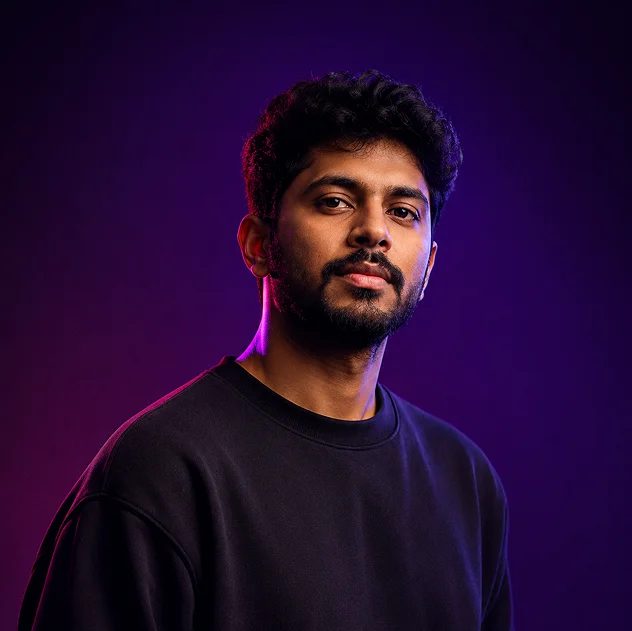
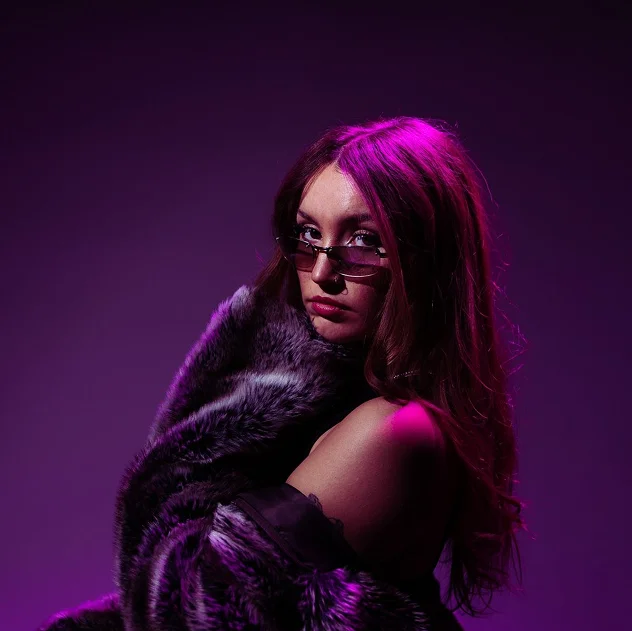
feat: create Web & App development page and add related assets

diff --git a/ZYLOGENIX/src/pages/Web&App.jsx b/ZYLOGENIX/src/pages/Web&App.jsx
@@ -113,15 +113,24 @@ const WebApp = () => {
           title={"Lorem Lipsum Solor\nLorem Lipsms"}
           description1="Lorem ipsum dolor sit amet consectetur. Ipsum vel dolor ut euLorem ipsum dolor sit amet consectetur. Ipsum vel dolor ut euLorem ipsum dolor sit amet consectetur. Ipsum vel dolor ut euLorem ipsum dolor sit amet consectetur. Ipsum vel dolor ut euLorem ipsum dolor sit amet consectetur. Ipsum vel dolor ut eu"
           description2="Lorem ipsum dolor sit amet consectetur. Ipsum vel dolor ut euLorem ipsum dolor sit amet consectetur."
-          bgColor="#0A0A0A"
+          bgColor="rgba(0, 0, 0, 1)"
           imagePosition="left"
+          imageScale={1}
+          objectFitOverride='cover'
+          containerSx={{ minHeight: { xs: 'auto', sm: 'auto', md: '520px', lg: '639px' } }}
+          imageContainerSx={{ 
+            flex: { xs: '1 1 100%', sm: '1 1 50%', lg: '0 0 580px' }, 
+            width: { xs: '100%', sm: '50%', lg: '580px' }, 
+            height: { xs: 'auto', sm: 'auto', lg: '639px' },
+            ml: { xs: '0px', lg: '45px' },
+            mt: { xs: '0px', lg: '0px' } 
+          }}
         />
 
         {/* Card 2 */}
         <FeatureCard 
           className="white-section"
           image={Img2}
-          imageScale={0.80}
           badgeText="Website Redesign & Maintenance"
           title={"Lorem Lipsum Solor\nLorem Lipsms"}
           description1="Lorem ipsum dolor sit amet consectetur. Ipsum vel dolor ut euLorem ipsum dolor sit amet consectetur. Ipsum vel dolor ut euLorem ipsum dolor sit amet consectetur. Ipsum vel dolor ut euLorem ipsum dolor sit amet consectetur. Ipsum vel dolor ut euLorem ipsum dolor sit amet consectetur. Ipsum vel dolor ut eu"
@@ -129,19 +138,49 @@ const WebApp = () => {
           bgColor="#FFFFFF"
           textColor="#000000"
           imagePosition="right"
+          imageScale={1}
+          objectFitOverride='contain'
+          imageContainerSx={{ 
+            flex: { xs: '1 1 100%', sm: '1 1 50%', lg: '0 0 487px' }, 
+            width: { xs: '100%', sm: '50%', lg: '487px' }, 
+            height: { xs: 'auto', sm: 'auto', lg: '614px' }
+          }}
+          badgeSx={{ 
+            width: { lg: '153px' }, 
+            height: { lg: '24px' },
+            padding: { lg: '0px' } 
+          }}
+          titleSx={{ 
+            fontSize: { lg: '37.81px' }, 
+            lineHeight: { lg: '34.79px' }, 
+            maxWidth: { lg: '472px' }
+          }}
+          descriptionSx={{ 
+            fontSize: { lg: '16px' }, 
+            lineHeight: { lg: '25px' }, 
+            maxWidth: { lg: '486px' }
+          }}
         />
 
         {/* Card 3 */}
         <FeatureCard 
           image={Img3}
-          objectFitOverride="contain"
-          imageScale={0.78}
           badgeText="E-Commerce Development"
           title={"Lorem Lipsum Solor\nLorem Lipsms"}
           description1="Lorem ipsum dolor sit amet consectetur. Ipsum vel dolor ut euLorem ipsum dolor sit amet consectetur. Ipsum vel dolor ut euLorem ipsum dolor sit amet consectetur. Ipsum vel dolor ut euLorem ipsum dolor sit amet consectetur. Ipsum vel dolor ut euLorem ipsum dolor sit amet consectetur. Ipsum vel dolor ut eu"
           description2="Lorem ipsum dolor sit amet consectetur. Ipsum vel dolor ut euLorem ipsum dolor sit amet consectetur."
           bgColor="#0B1117"
           imagePosition="left"
+          imageScale={1}
+          objectFitOverride='contain'
+          containerSx={{ minHeight: { xs: 'auto', sm: 'auto', md: '520px', lg: '639px' } }}
+          imageContainerSx={{ 
+            flex: { xs: '1 1 100%', sm: '1 1 50%', lg: '0 0 391px' }, 
+            width: { xs: '100%', sm: '50%', lg: '391px' }, 
+            height: { xs: 'auto', sm: 'auto', lg: '557px' },
+            ml: { xs: '0px', lg: '148px' },
+            mt: { xs: '0px', lg: '84px' } 
+          }}
         />
 
         {/* Card 4 */}
@@ -155,6 +194,14 @@ const WebApp = () => {
           bgColor="rgba(232, 232, 232, 1)"
           textColor="#000000"
           imagePosition="right"
+          imageScale={1}
+          objectFitOverride='cover'
+          containerSx={{ minHeight: { xs: 'auto', sm: 'auto', md: '520px', lg: '633px' } }}
+          imageContainerSx={{ 
+            flex: { xs: '1 1 100%', sm: '1 1 50%', lg: '0 0 537px' }, 
+            width: { xs: '100%', sm: '50%', lg: '537px' }, 
+            height: { xs: 'auto', sm: 'auto', lg: '634px' }
+          }}
         />
 
         {/* Card 5 */}
@@ -166,6 +213,14 @@ const WebApp = () => {
           description2="Lorem ipsum dolor sit amet consectetur. Ipsum vel dolor ut euLorem ipsum dolor sit amet consectetur."
           bgColor="#0D1614"
           imagePosition="left"
+          imageScale={0.999}
+          objectFitOverride='cover'
+          containerSx={{ minHeight: { xs: 'auto', sm: 'auto', md: '520px', lg: '639px' } }}
+          imageContainerSx={{ 
+            flex: { xs: '1 1 100%', sm: '1 1 50%', lg: '0 0 590px' }, 
+            width: { xs: '100%', sm: '50%', lg: '590px' }, 
+            height: { xs: 'auto', sm: 'auto', lg: '638px' }
+          }}
         />
 
       </Box>
